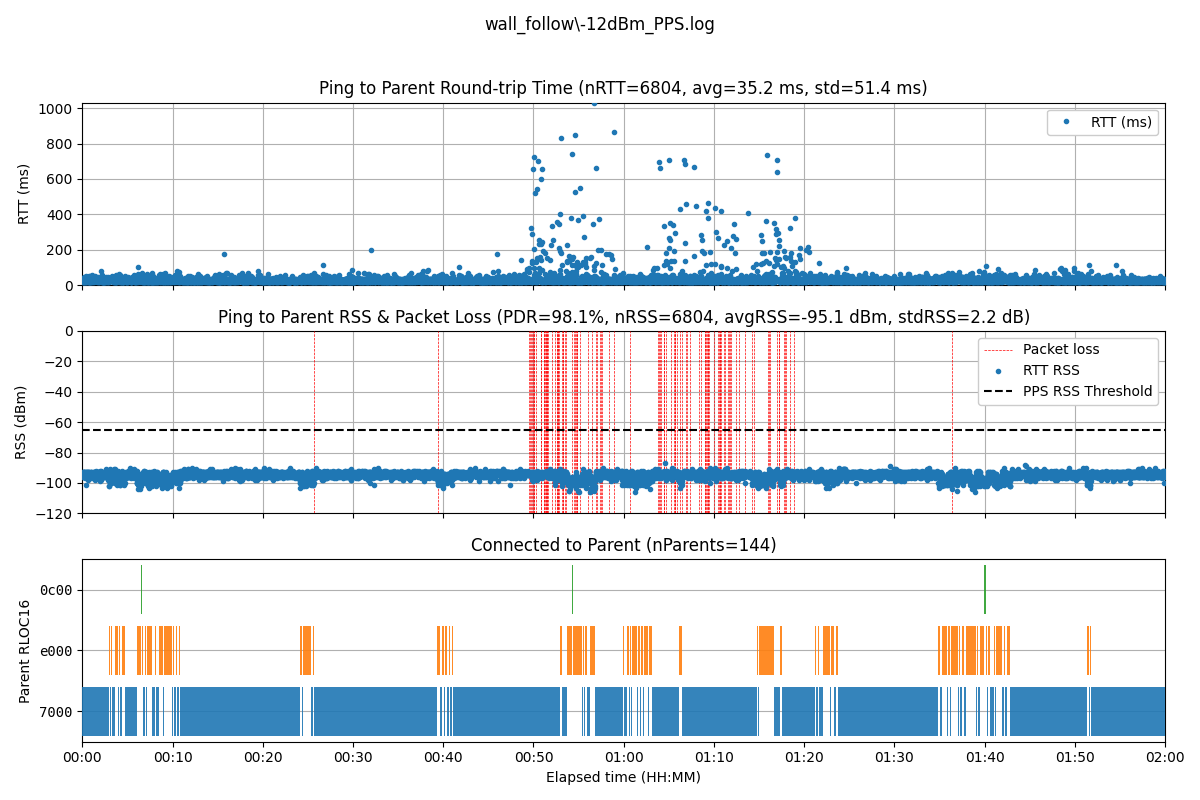
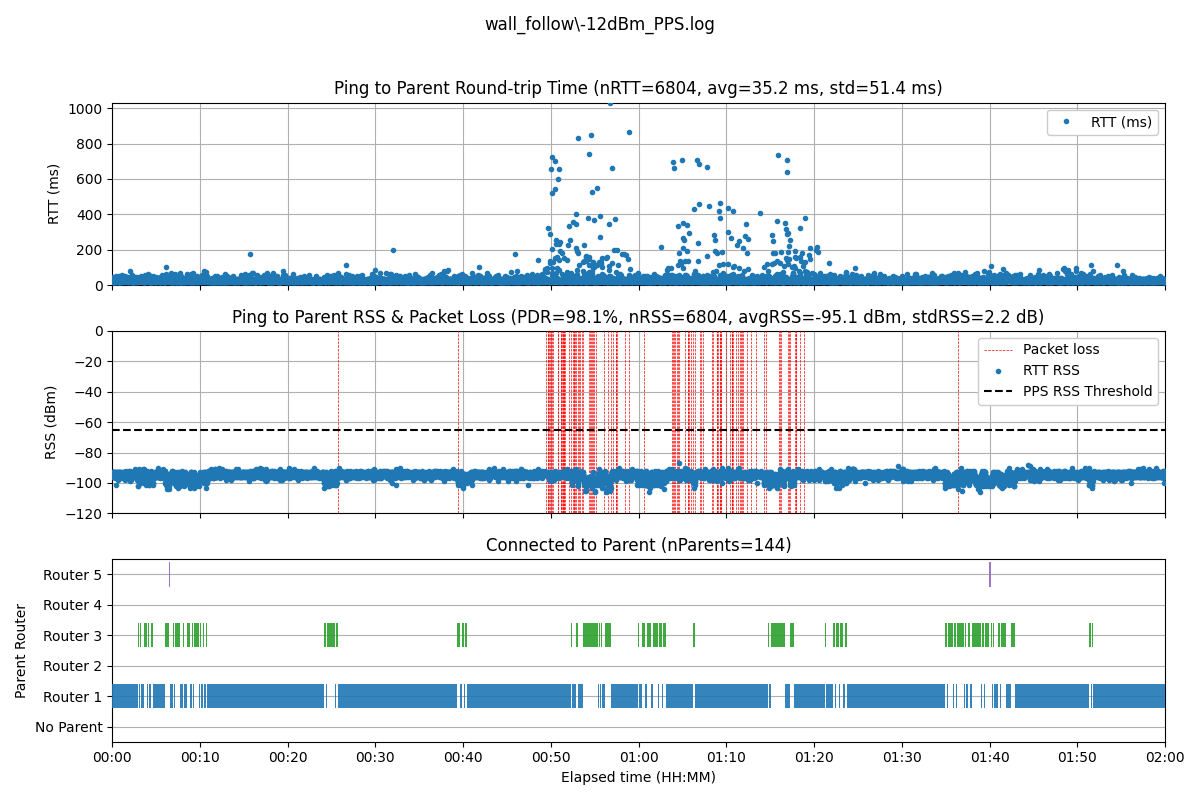
router numbers, instead of RLOCs

diff --git a/openthread_log_visualizer.py b/openthread_log_visualizer.py
@@ -47,6 +47,77 @@ TRIM_WINDOW_SECONDS: float = 2 * 60 * 60  # exactly 2 hours
 
 
 # -----------------------------------------------------------------------------
+# RLOC16 -> Router number mapping
+# -----------------------------------------------------------------------------
+# NOTE: Routers 2 and 4 have two possible RLOC16 values (RLOC16 changed over time).
+RLOC16_TO_ROUTER_NUM: Dict[str, int] = {
+    "7000": 1,
+    "C400": 2,
+    "7800": 2,
+    "E000": 3,
+    "C800": 4,
+    "2400": 4,
+    "0C00": 5,
+}
+
+# Always show these labels on the parent subplot, even if absent in the data.
+BASE_PARENT_LABELS: List[str] = [
+    "No Parent",
+    "Router 1",
+    "Router 2",
+    "Router 3",
+    "Router 4",
+    "Router 5",
+]
+
+
+def _normalize_rloc16(rloc16: str) -> str:
+    """
+    Normalize an RLOC16 string to a canonical 4-hex-digit uppercase representation.
+    Examples: "0xc400" -> "C400", "0c00" -> "0C00"
+    """
+    s = str(rloc16).strip()
+    if s.lower().startswith("0x"):
+        s = s[2:]
+    s = s.upper()
+    # Keep only hex characters if the string is noisy (defensive).
+    s = "".join(ch for ch in s if ch in "0123456789ABCDEF")
+    if len(s) == 0:
+        return ""
+    # Left-pad to 4 chars if shorter than expected.
+    if len(s) < 4:
+        s = s.zfill(4)
+    return s
+
+
+def _rloc16_value_to_router_label(value: object) -> str:
+    """
+    Convert a raw parent value (RLOC16 / "No Parent" / etc.) to a router label.
+    - Known RLOC16s map to "Router N"
+    - "No Parent" remains "No Parent"
+    - Unknown values become "Unknown (<RLOC16>)"
+    """
+    if value is None:
+        return "No Parent"
+
+    s = str(value).strip()
+    if not s:
+        return "No Parent"
+    if s.lower() == "no parent":
+        return "No Parent"
+
+    norm = _normalize_rloc16(s)
+    if not norm:
+        return "No Parent"
+
+    router_num = RLOC16_TO_ROUTER_NUM.get(norm)
+    if router_num is not None:
+        return f"Router {router_num}"
+
+    return f"Unknown ({norm})"
+
+
+# -----------------------------------------------------------------------------
 # Stats helpers
 # -----------------------------------------------------------------------------
 
@@ -471,20 +542,34 @@ def plot_parents(ax, metrics: LogMetrics, *, end_time: Optional[float] = None) -
     """
     Gantt-style parent connectivity timeline.
 
-    If end_time is provided, the last segment is extended to that value (in seconds).
+    This plot translates Parent RLOC16 values into Router numbers (Router 1..5),
+    merging segments when a router's RLOC16 changes over time (e.g., C400 <-> 7800).
+
+    The y-axis ALWAYS includes:
+      - No Parent
+      - Router 1..5
+    even if some of them do not appear in the data.
     """
     parent_ts, parent_vals = _select_parent_series(metrics)
 
     if not parent_ts:
-        ax.set_title("Connected to Parent")
+        ax.set_title("Connected to Parent (nParents=0)")
         ax.text(0.5, 0.5, "No parent data", transform=ax.transAxes, ha="center", va="center")
-        ax.set_yticks([])
-        ax.grid(True)
+
+        # Still show the fixed labels even if there is no data
+        ax.set_ylabel("Parent Router")
+        ax.set_yticks(range(len(BASE_PARENT_LABELS)))
+        ax.set_yticklabels(BASE_PARENT_LABELS)
+        ax.set_ylim(-0.5, len(BASE_PARENT_LABELS) - 0.5)
+        ax.grid(True, axis="y")
+        ax.grid(False, axis="x")
         return
 
     pairs = sorted(zip(parent_ts, parent_vals), key=lambda x: float(x[0]))
     parent_ts_sorted = [float(t) for t, _ in pairs]
-    parent_vals_sorted = [p for _, p in pairs]
+
+    # Translate RLOC16 -> Router label here (this merges “RLOC16 changed” cases).
+    parent_router_labels = [_rloc16_value_to_router_label(p) for _, p in pairs]
 
     # Establish an end time for the final segment.
     if end_time is not None:
@@ -503,12 +588,12 @@ def plot_parents(ax, metrics: LogMetrics, *, end_time: Optional[float] = None) -
                 all_ts.extend([float(v) for v in vals])
         overall_end = max(all_ts) if all_ts else parent_ts_sorted[-1]
 
-    # Build change-point segments: (start, end, parent)
+    # Build change-point segments: (start, end, parent_router_label)
     segments: List[Tuple[float, float, str]] = []
-    cur_parent = parent_vals_sorted[0]
+    cur_parent = parent_router_labels[0]
     cur_start = parent_ts_sorted[0]
 
-    for t, p in zip(parent_ts_sorted[1:], parent_vals_sorted[1:]):
+    for t, p in zip(parent_ts_sorted[1:], parent_router_labels[1:]):
         if p != cur_parent:
             segments.append((cur_start, t, cur_parent))
             cur_parent = p
@@ -516,26 +601,12 @@ def plot_parents(ax, metrics: LogMetrics, *, end_time: Optional[float] = None) -
 
     segments.append((cur_start, overall_end, cur_parent))
 
-    # Compute dwell time per parent for ordering.
-    dwell: Dict[str, float] = {}
-    for s, e, p in segments:
-        dwell[p] = dwell.get(p, 0.0) + max(0.0, e - s)
+    # Y-axis ordering: always include fixed labels, plus any extras (e.g., Unknown(...)).
+    unique_set = set(parent_router_labels)
+    unique_parents: List[str] = list(BASE_PARENT_LABELS)
 
-    unique_set = set(parent_vals_sorted)
-
-    def _hex_key(p: str) -> int:
-        try:
-            return int(p, 16)
-        except Exception:
-            return 1_000_000_000
-
-    others = [p for p in unique_set if p != "No Parent"]
-    others_sorted = sorted(others, key=lambda p: (-dwell.get(p, 0.0), _hex_key(p), p))
-
-    if "No Parent" in unique_set:
-        unique_parents = ["No Parent"] + others_sorted
-    else:
-        unique_parents = others_sorted
+    extras = sorted([p for p in unique_set if p not in set(BASE_PARENT_LABELS)])
+    unique_parents.extend(extras)
 
     parent_to_index = {p: i for i, p in enumerate(unique_parents)}
 
@@ -577,9 +648,9 @@ def plot_parents(ax, metrics: LogMetrics, *, end_time: Optional[float] = None) -
             zorder=4,
         )
 
-    ax.set_ylabel("Parent RLOC16")
+    ax.set_ylabel("Parent Router")
     ax.set_yticks(range(len(unique_parents)))
-    ax.set_yticklabels(unique_parents, fontfamily="monospace")
+    ax.set_yticklabels(unique_parents)
     ax.set_ylim(-0.5, len(unique_parents) - 0.5)
 
     n_parents = max(0, len(segments))
